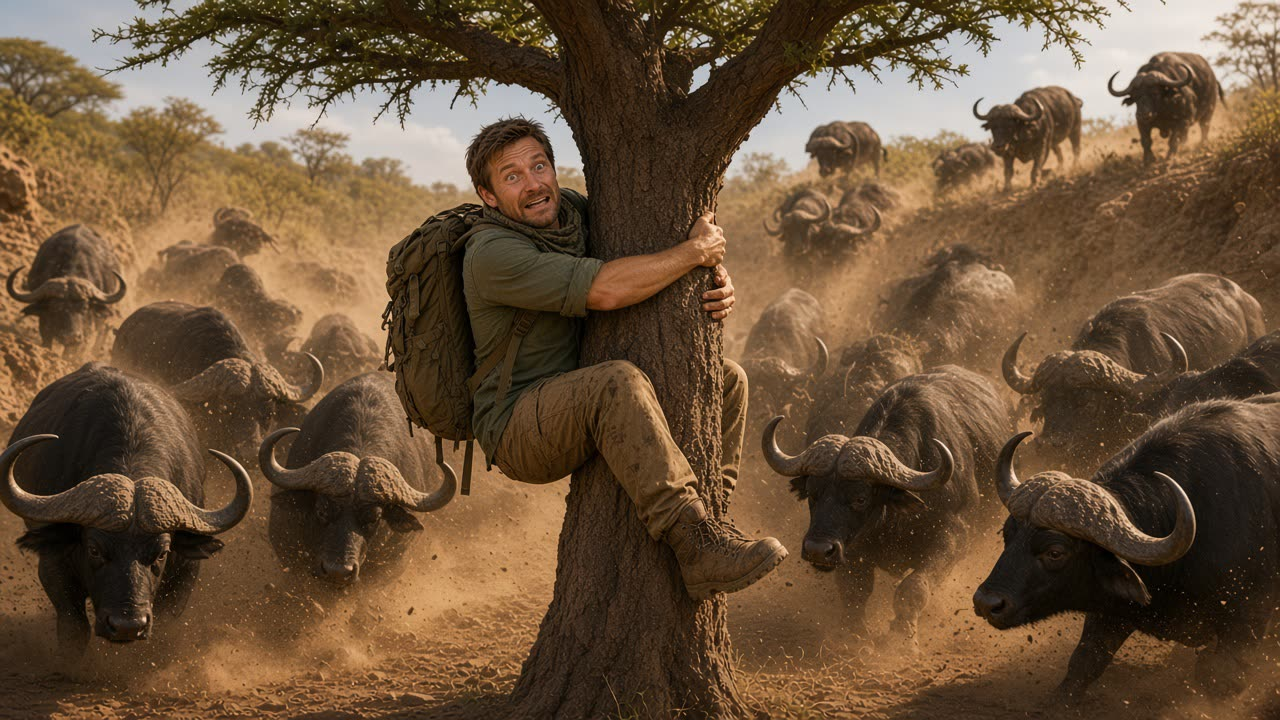
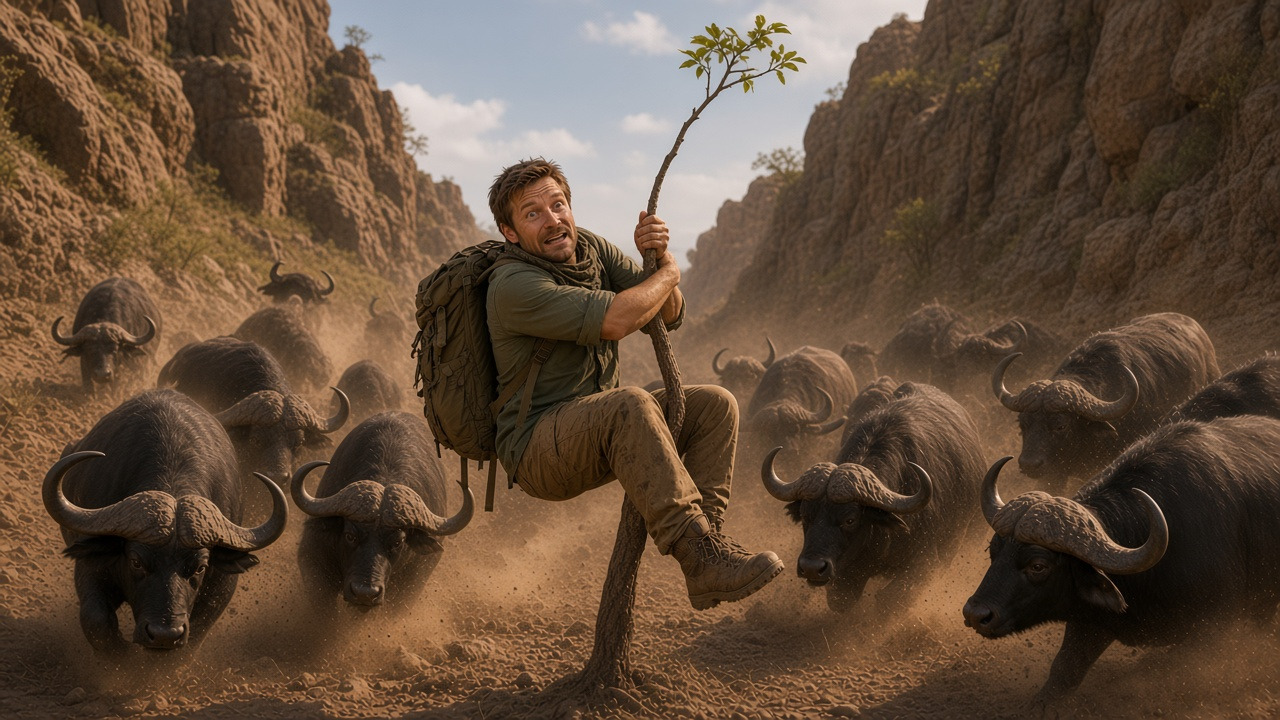
Lose screens for Buffalo Ravine, The Climb, and Wolf Chase; Episode 1 map labels
Replace the approved 08/09/12 lose stills and port only those levels' text placements, including the split YOU | LOSE treatment on Wolf Chase. Keep the YOU LOSE wobble. On the Episode 1 jungle map, relabel Start as Drop-off Point and The Lagoon as Rendezvous Point.

diff --git a/index.html b/index.html
@@ -447,6 +447,31 @@ img.cv.kb { animation:kb 9s ease-out forwards; }
   transform:translateX(-50%) scale(.5); opacity:0; pointer-events:none; transition:transform .4s cubic-bezier(.2,1.7,.4,1), opacity .3s; }
 .again.show { opacity:1; transform:translateX(-50%) scale(1); pointer-events:auto; }
 .again:active { transform:translateX(-50%) translateY(4px); }
+
+/* per-level lose text: same type as the game, positions avoid faces/animals */
+.cscreen.lose.split { --iw:min(100vw, 177.78vh); }
+.ylose.split { left:0; right:0; animation:none; height:0; }
+.ylose.split > span { position:absolute; top:0; transform-origin:center; font-size:min(clamp(2.6rem, 8.6vw, 6.4rem), calc(var(--iw) * .062)); white-space:nowrap;
+  animation:yloseIn .7s .25s cubic-bezier(.2,1.8,.4,1) both, yloseWob 1.4s 1.1s ease-in-out infinite; }
+.ylose.split > .w1 { left:calc(50vw - var(--iw) * .31); translate:-50% 0; }
+.ylose.split > .w2 { left:calc(50vw + var(--iw) * .335); translate:-50% 0; }
+.cscreen.lose.split .again { bottom:calc(8px + env(safe-area-inset-bottom)); }
+.cscreen.lose.split .lreason { left:calc(50vw + var(--iw) * .335); right:auto; width:calc(var(--iw) * .26); translate:-50% 0; line-height:1.5;
+  top:calc(6vh + min(clamp(2.6rem, 8.6vw, 6.4rem), calc(var(--iw) * .062)) * 1.25 + 1.5vh + env(safe-area-inset-top)); }
+.cscreen.lose.lay { --iw:min(100vw, 177.78vh); --ih:calc(var(--iw) * .5625); }
+.lbox { position:absolute; z-index:2; width:var(--iw); height:var(--ih); left:calc(50vw - var(--iw) / 2); top:calc(50vh - var(--ih) / 2); pointer-events:none; }
+.lbox .ylose, .lbox .lreason { top:auto; right:auto; left:auto; }
+.lbox .ylose { font-size:calc(var(--iw) * .058); white-space:nowrap; }
+.lbox .lreason { font-size:calc(var(--iw) * .02); }
+.lbox .again { bottom:auto; min-height:0; height:calc(var(--ih) * .1); padding:0 calc(var(--iw) * .025); font-size:calc(var(--iw) * .017); border-radius:calc(var(--iw) * .012); pointer-events:auto; }
+/* 08 Buffalo Ravine: title + reason in the upper-left sky, Play again lower-left */
+.lay-left .ylose { left:3%; width:42%; top:4%; }
+.lay-left .lreason { left:3%; width:42%; top:20%; }
+.lay-left .again { left:18%; top:86%; }
+/* 09 The Climb: title + reason over the mountain, button low-left */
+.lay-mount .ylose { left:0; width:100%; top:2.5%; }
+.lay-mount .lreason { left:0; width:100%; top:18%; }
+.lay-mount .again { left:22%; top:86%; }
 .autonote { font-size:.85rem; color:var(--ink-soft); margin-top:8px; }
 /* dev panel */
 #devp { position:fixed; left:6px; bottom:6px; z-index:300; display:flex; flex-wrap:wrap; gap:4px; max-width:560px; padding:6px; border-radius:10px; background:rgba(0,0,0,.78); color:#fff; font:700 12px system-ui, sans-serif; align-items:center; }
@@ -1746,7 +1771,7 @@ document.addEventListener("visibilitychange", () => { if (!AC) return; try { if 
 const ASSET = n => "assets/" + n;
 const DEV = /[?&]dev=1\b/.test(location.search);
 const EP_INFO = [
-  { name: "The Jungle", filter: "", soon: "", map: "map-jungle-wide", rendezvous: "The Lagoon",
+  { name: "The Jungle", filter: "", soon: "", map: "map-jungle-wide", rendezvous: "Rendezvous Point", startLabel: "Drop-off Point",
     pts: [[743, 801], [636, 665], [328, 464], [1116, 303], [761, 184]],
     lab: [[110, 0], [120, 0], [-115, 45], [90, -45], [-40, 52]],
     path: [
@@ -1906,13 +1931,13 @@ const EP_LV = {
     { name: "Hippo River", mapLabel: "The River", brief: "Solve 4 problems to pole past the hippos!", winCap: "Across Hippo River!", setup: "setup-e2l1", win: "win-e2l1", lose: "lose-e2l1" },
     { name: "Tightrope Gorge", mapLabel: "The Gorge", brief: "Solve 4 problems to cross the gorge before the leopard!", winCap: "Rope cut — gorge crossed!", setup: "setup-e2l2", win: "win-e2l2", lose: "lose-e2l2" },
     { name: "Lion Crossing", mapLabel: "The Trail", brief: "Solve 4 problems to face down the lion!", winCap: "Lion Crossing conquered!", setup: "setup-e2l3", win: "win-e2l3", lose: "lose-e2l3" },
-    { name: "Buffalo Ravine", mapLabel: "The Ravine", brief: "Solve 2 problems to outrun the stampede!", winCap: "Escaped by safari truck!", setup: "setup-e2l4", win: "win-e2l4", lose: "lose-e2l4" }
+    { name: "Buffalo Ravine", mapLabel: "The Ravine", brief: "Solve 2 problems to outrun the stampede!", winCap: "Escaped by safari truck!", setup: "setup-e2l4", win: "win-e2l4", lose: "lose-e2l4", loseLay: "left" }
   ],
   2: [
-    { name: "The Climb", mapLabel: "The Climb", brief: "Solve 4 problems to scramble up the scree!", winCap: "Over the top — camp and a snowboard!", setup: "setup-e3l1", win: "win-e3l1", lose: "lose-e3l1" },
+    { name: "The Climb", mapLabel: "The Climb", brief: "Solve 4 problems to scramble up the scree!", winCap: "Over the top — camp and a snowboard!", setup: "setup-e3l1", win: "win-e3l1", lose: "lose-e3l1", loseLay: "mount" },
     { name: "Avalanche Run", mapLabel: "The Slope", brief: "Solve 4 problems to outrun the avalanche!", winCap: "Avalanche dodged!", setup: "setup-e3l2", win: "win-e3l2", lose: "lose-e3l2" },
     { name: "Campfire Wolves", mapLabel: "Campsite", brief: "Solve 4 problems to get that fire lit!", winCap: "The pack runs for it!", setup: "setup-e3l3", win: "win-e3l3", lose: "lose-e3l3" },
-    { name: "Wolf Chase", mapLabel: "The Summit", brief: "Solve 2 problems to reach the rescue helicopter!", winCap: "Rescued at the rendezvous!", setup: "setup-e3l4", win: "win-e3l4", lose: "lose-e3l4" }
+    { name: "Wolf Chase", mapLabel: "The Summit", brief: "Solve 2 problems to reach the rescue helicopter!", winCap: "Rescued at the rendezvous!", setup: "setup-e3l4", win: "win-e3l4", lose: "lose-e3l4", loseSplit: true }
   ]
 };
 const LVS = ep => EP_LV[ep] || LV_INFO;
@@ -2072,8 +2097,10 @@ const Cine = (() => {
           }
         }
         // Start label
+        const startNm = E.startLabel || "Start";
         const soff = labs[0] || [110, 10];
-        svg += '<g class="mlab done" transform="translate(' + (MAP_PTS[0][0] + soff[0]) + "," + (MAP_PTS[0][1] + soff[1]) + ')"><rect x="-48" y="-16" width="96" height="32"/><text style="font-size:18px">Start</text></g>';
+        const stw = Math.max(96, startNm.length * 11.5 + 28);
+        svg += '<g class="mlab done" transform="translate(' + (MAP_PTS[0][0] + soff[0]) + "," + (MAP_PTS[0][1] + soff[1]) + ')"><rect x="' + (-stw / 2) + '" y="-16" width="' + stw + '" height="32"/><text style="font-size:18px">' + startNm.replace(/&/g, "&amp;").replace(/</g, "&lt;") + "</text></g>";
         for (let n = 1; n <= 4; n++) {
           const isRv = n === 4;
           const Lv = levels[n - 1] || {};
@@ -2214,8 +2241,12 @@ const Cine = (() => {
   function lose(lv, reason) {
     return new Promise(res => {
       const src = ASSET(LVI(G.episode, lv).lose + ".jpg");
-      show('<div class="cscreen lose"><div class="cbg" style="background-image:url(\'' + src + '\')"></div><div class="vwrap"><img class="cv" src="' + src + '" alt=""></div>' +
-        '<div class="ylose">YOU LOSE</div><div class="lreason">' + (reason === "time" ? "Out of time!" : "Out of strength!") + '</div><button class="again cprimary" data-cine="again">↻ Play again</button></div>');
+      const Linfo = LVI(G.episode, lv), split = Linfo.loseSplit, lay = Linfo.loseLay;
+      const reasonH = (reason === "time" ? "Out of time!" : "Out of strength!");
+      const title = split ? '<div class="ylose split"><span class="w1">YOU</span><span class="w2">LOSE</span></div>' : '<div class="ylose">YOU LOSE</div>';
+      const rest = title + '<div class="lreason">' + reasonH + '</div><button class="again cprimary" data-cine="again">↻ Play again</button>';
+      show('<div class="cscreen lose' + (split ? ' split' : '') + (lay ? ' lay' : '') + '"><div class="cbg" style="background-image:url(\'' + src + '\')"></div><div class="vwrap"><img class="cv" src="' + src + '" alt=""></div>' +
+        (lay ? '<div class="lbox lay-' + lay + '">' + rest + '</div>' : rest) + '</div>');
       const b = root.querySelector(".again"); let ready = false;
       setTimeout(() => { ready = true; b.classList.add("show"); }, TUNE.loseHold);
       onBtn = k => { if (k === "again" && ready) { SFX.step(); res(); } };
